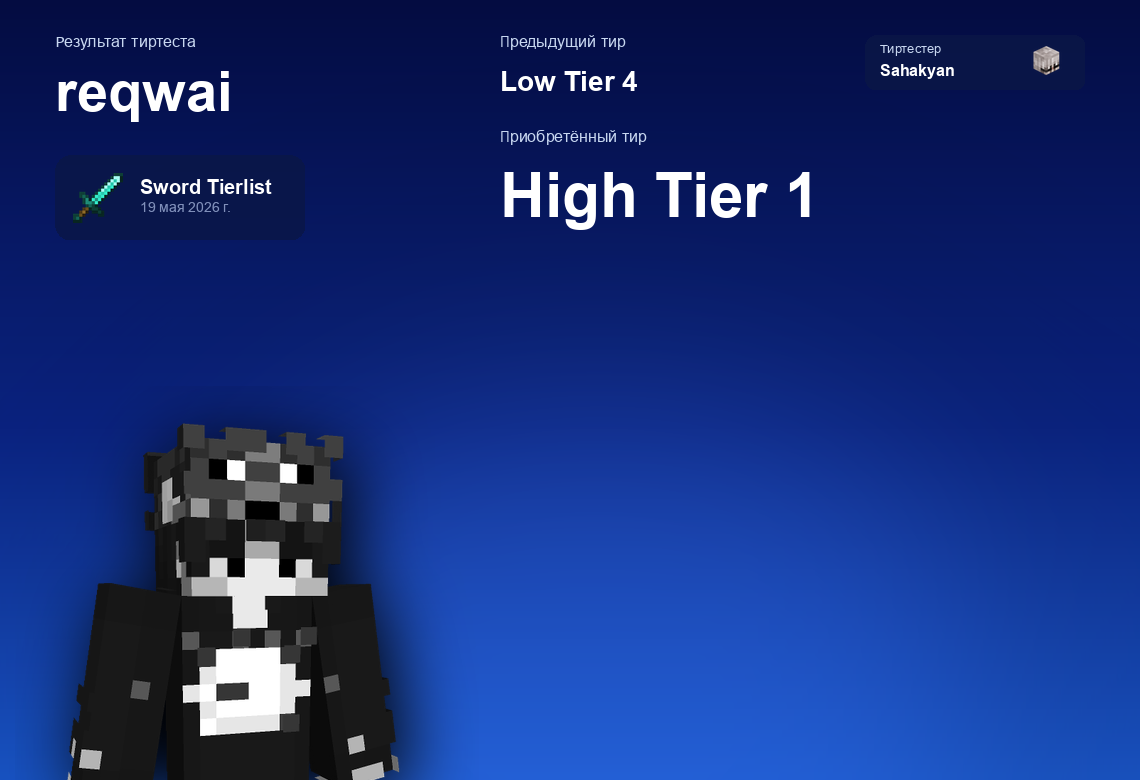
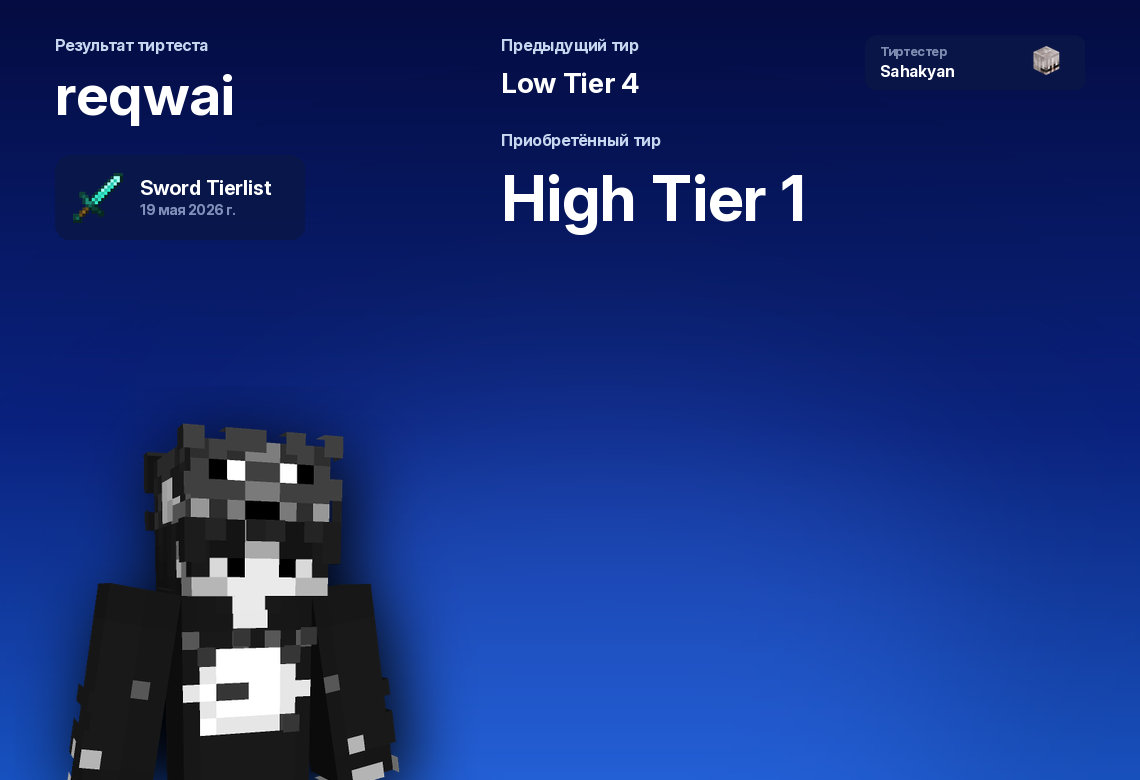
refactor: restructure code into functions, optimize speed and add logging

diff --git a/main.py b/main.py
@@ -1,151 +1,188 @@
 from PIL import Image, ImageDraw, ImageFilter, ImageFont
+import logging
+
+logging.basicConfig(level=logging.INFO, format="%(levelname)s: %(message)s")
+log = logging.getLogger(__name__)
 
 WIDTH, HEIGHT = 1140, 780
-SKIN_PATH = "reqwai.png"
-SWORD_ICON_PATH = "Diamond_Sword_JE3_BE3.png"
+
+SKIN_PATH          = "reqwai.png"
+SWORD_ICON_PATH    = "Diamond_Sword_JE3_BE3.png"
 TESTER_AVATAR_PATH = "tirtester.png"
-FONT_PATH = "Inter_24pt-Bold.ttf"
-OUTPUT_PATH = "reqwai_result.png"
+FONT_PATH          = "Inter_24pt-Bold.ttf"
+FONT_PATH_REGULAR  = "Inter_24pt-Regular.ttf"
+OUTPUT_PATH        = "reqwai_result.png"
 
 PLAYER_NAME = "reqwai"
 TIER_RESULT = "High Tier 1"
-PREV_TIER = "Low Tier 4"
+PREV_TIER   = "Low Tier 4"
 TESTER_NAME = "Sahakyan"
-DATE_TEXT = "19 мая 2026 г."
+DATE_TEXT   = "19 мая 2026 г."
 
-WHITE = (255, 255, 255, 255)
+WHITE      = (255, 255, 255, 255)
 LIGHT_GRAY = (200, 215, 240, 160)
-CARD_BG = (10, 22, 70, 210)
+CARD_BG    = (10, 22, 70, 210)
+
+TOP_COLOR    = (4,  12,  65)
+MID_COLOR    = (10, 35, 130)
+BOTTOM_COLOR = (25, 85, 200)
+
+PAD = 55
+
 
 def mix(c1, c2, t):
     return tuple(int(c1[i] * (1 - t) + c2[i] * t) for i in range(3))
 
-def load_f(size, bold=False):
-    try:
-        if "arial" in FONT_PATH.lower() and bold:
-            return ImageFont.truetype("arialbd.ttf", size)
-        return ImageFont.truetype(FONT_PATH, size)
-    except:
+
+def load_font(size: int, bold: bool = False) -> ImageFont.FreeTypeFont:
+    candidates = [
+        FONT_PATH if bold else FONT_PATH_REGULAR,
+        FONT_PATH,
+        "arialbd.ttf" if bold else "arial.ttf",
+    ]
+    for path in candidates:
         try:
-            return ImageFont.truetype("arialbd.ttf" if bold else "arial.ttf", size)
-        except:
-            return ImageFont.load_default()
+            return ImageFont.truetype(path, size)
+        except (IOError, OSError):
+            continue
+    log.warning("Не удалось загрузить TrueType-шрифт, используется встроенный.")
+    return ImageFont.load_default()
 
-top_color    = (4,  12,  65)
-mid_color    = (10, 35, 130)
-bottom_color = (25, 85, 200)
 
-gradient = Image.new("RGB", (1, HEIGHT))
-for y in range(HEIGHT):
-    t = y / (HEIGHT - 1)
-    if t < 0.55:
-        color = mix(top_color, mid_color, t / 0.55)
-    else:
-        color = mix(mid_color, bottom_color, (t - 0.55) / 0.45)
-    gradient.putpixel((0, y), color)
+def build_gradient() -> Image.Image:
+    img = Image.new("RGB", (WIDTH, HEIGHT))
+    draw = ImageDraw.Draw(img)
+    for y in range(HEIGHT):
+        t = y / (HEIGHT - 1)
+        if t < 0.55:
+            color = mix(TOP_COLOR, MID_COLOR, t / 0.55)
+        else:
+            color = mix(MID_COLOR, BOTTOM_COLOR, (t - 0.55) / 0.45)
+        draw.line([(0, y), (WIDTH, y)], fill=color)
+    return img
 
-result = gradient.resize((WIDTH, HEIGHT)).convert("RGBA")
 
-glow = Image.new("RGBA", (WIDTH, HEIGHT), (0, 0, 0, 0))
-draw_g = ImageDraw.Draw(glow)
-draw_g.ellipse([int(WIDTH*0.1), int(HEIGHT*0.4), int(WIDTH*0.95), int(HEIGHT*1.2)], fill=(60, 120, 245, 75))
-glow = glow.filter(ImageFilter.GaussianBlur(130))
-result = Image.alpha_composite(result, glow)
+def build_tierlist_card(f_card, f_card_sm) -> Image.Image:
+    card_w, card_h = 250, 85
+    card = Image.new("RGBA", (card_w, card_h), (0, 0, 0, 0))
+    draw = ImageDraw.Draw(card)
+    draw.rounded_rectangle([0, 0, card_w, card_h], radius=16, fill=CARD_BG)
 
-draw = ImageDraw.Draw(result)
+    try:
+        sword = Image.open(SWORD_ICON_PATH).convert("RGBA")
+        sword = sword.resize((50, 50), Image.Resampling.LANCZOS)
+        card.alpha_composite(sword, (18, 18))
+    except Exception as e:
+        log.warning("Не удалось загрузить иконку меча: %s", e)
+        draw.text((18, 18), "⚔", font=load_font(30), fill=WHITE)
 
-f_small        = load_f(16, bold=False)
-f_name         = load_f(56, bold=True)
-f_med          = load_f(28, bold=True)
-f_tier         = load_f(62, bold=True)
-f_card         = load_f(20, bold=True)
-f_card_sm      = load_f(14, bold=False)
-f_tester_title = load_f(13, bold=False)
-f_tester_name  = load_f(16, bold=True)
+    draw.text((85, 20), "Sword Tierlist", font=f_card,    fill=WHITE)
+    draw.text((85, 46), DATE_TEXT,        font=f_card_sm, fill=LIGHT_GRAY)
+    return card
 
-pad = 55
 
-draw.text((pad, 35), "Результат тиртеста", font=f_small, fill=LIGHT_GRAY)
-draw.text((pad, 60), PLAYER_NAME, font=f_name, fill=WHITE)
+def paste_tester_badge(result: Image.Image, f_title, f_name) -> Image.Image:
+    tw, th = 220, 55
+    tx = WIDTH - tw - PAD
+    ty = 35
 
-card_x, card_y = pad, 155
-card_w, card_h = 250, 85
-card_bg = Image.new("RGBA", (card_w, card_h), (0, 0, 0, 0))
-draw_c = ImageDraw.Draw(card_bg)
-draw_c.rounded_rectangle([0, 0, card_w, card_h], radius=16, fill=CARD_BG)
+    badge = Image.new("RGBA", (tw, th), (0, 0, 0, 0))
+    draw  = ImageDraw.Draw(badge)
+    draw.rounded_rectangle([0, 0, tw, th], radius=12, fill=CARD_BG)
+    draw.text((15,  8), "Тиртестер", font=f_title, fill=LIGHT_GRAY)
+    draw.text((15, 26), TESTER_NAME, font=f_name,  fill=WHITE)
+    result.alpha_composite(badge, (tx, ty))
 
-try:
-    sword_img = Image.open(SWORD_ICON_PATH).convert("RGBA")
-    sword_img = sword_img.resize((50, 50), Image.Resampling.LANCZOS)
-    card_bg.alpha_composite(sword_img, (18, 18))
-except:
-    draw_c.text((18, 18), "⚔", font=load_f(30), fill=WHITE)
+    try:
+        avatar = Image.open(TESTER_AVATAR_PATH).convert("RGBA")
+        target_h = 36
+        scale    = target_h / avatar.height
+        avatar   = avatar.resize(
+            (int(avatar.width * scale), target_h),
+            Image.Resampling.LANCZOS,
+        )
+        hx = tx + tw - avatar.width - 12
+        hy = ty + (th - avatar.height) // 2
+        layer = Image.new("RGBA", result.size, (0, 0, 0, 0))
+        layer.paste(avatar, (hx, hy))
+        result = Image.alpha_composite(result, layer)
+    except Exception as e:
+        log.warning("Не удалось загрузить аватар тестера: %s", e)
 
-draw_c.text((85, 20), "Sword Tierlist", font=f_card, fill=WHITE)
-draw_c.text((85, 46), DATE_TEXT, font=f_card_sm, fill=LIGHT_GRAY)
+    return result
 
-result.alpha_composite(card_bg, (card_x, card_y))
 
-cx = 500
-draw.text((cx, 35), "Предыдущий тир", font=f_small, fill=LIGHT_GRAY)
-draw.text((cx, 65), PREV_TIER, font=f_med, fill=WHITE)
+def paste_skin(result: Image.Image) -> Image.Image:
+    try:
+        skin  = Image.open(SKIN_PATH).convert("RGBA")
+        max_w = int(WIDTH  * 0.32)
+        max_h = int(HEIGHT * 0.60)
+        scale = min(max_w / skin.width, max_h / skin.height)
+        skin  = skin.resize(
+            (int(skin.width * scale), int(skin.height * scale)),
+            Image.Resampling.LANCZOS,
+        )
 
-draw.text((cx, 130), "Приобретённый тир", font=f_small, fill=LIGHT_GRAY)
-draw.text((cx, 160), TIER_RESULT, font=f_tier, fill=WHITE)
+        sx = PAD
+        sy = HEIGHT - skin.height + 5
 
-tx = WIDTH - 275
-ty = 35
-tw, th = 220, 55
+        shadow_layer = Image.new("RGBA", skin.size, (0, 0, 0, 0))
+        shadow_layer.putalpha(skin.getchannel("A"))
 
-tester_bg_layer = Image.new("RGBA", (tw, th), (0, 0, 0, 0))
-draw_t = ImageDraw.Draw(tester_bg_layer)
-draw_t.rounded_rectangle([0, 0, tw, th], radius=12, fill=CARD_BG)
-result.alpha_composite(tester_bg_layer, (tx, ty))
+        shadow_canvas = Image.new("RGBA", (skin.width + 100, skin.height + 100), (0, 0, 0, 0))
+        shadow_canvas.paste(shadow_layer, (50, 50))
+        shadow_canvas = shadow_canvas.filter(ImageFilter.GaussianBlur(35))
 
-draw.text((tx + 15, ty + 8), "Тиртестер", font=f_tester_title, fill=LIGHT_GRAY)
-draw.text((tx + 15, ty + 26), TESTER_NAME, font=f_tester_name, fill=WHITE)
+        result.alpha_composite(shadow_canvas, (sx - 50 + 10, sy - 50 + 15))
+        result.alpha_composite(skin, (sx, sy))
+    except Exception as e:
+        log.warning("Не удалось загрузить скин: %s", e)
+    return result
 
-try:
-    trainer_head = Image.open(TESTER_AVATAR_PATH).convert("RGBA")
-    target_h = 36
-    
-    scale_y = target_h / trainer_head.height
-    new_size_y = (int(trainer_head.width * scale_y), target_h)
-    trainer_head = trainer_head.resize(new_size_y, Image.Resampling.LANCZOS)
-    
-    hx = tx + tw - (trainer_head.width + 12)
-    hy = ty + (th - trainer_head.height) // 2
-    
-    head_layer = Image.new("RGBA", result.size, (0, 0, 0, 0))
-    head_layer.paste(trainer_head, (hx, hy))
-    result = Image.alpha_composite(result, head_layer)
+
+def render() -> None:
+    result = build_gradient().convert("RGBA")
+
+    glow   = Image.new("RGBA", (WIDTH, HEIGHT), (0, 0, 0, 0))
+    draw_g = ImageDraw.Draw(glow)
+    draw_g.ellipse(
+        [int(WIDTH * 0.1), int(HEIGHT * 0.4), int(WIDTH * 0.95), int(HEIGHT * 1.2)],
+        fill=(60, 120, 245, 75),
+    )
+    glow   = glow.filter(ImageFilter.GaussianBlur(130))
+    result = Image.alpha_composite(result, glow)
+
     draw = ImageDraw.Draw(result)
-except:
-    pass
 
-try:
-    skin = Image.open(SKIN_PATH).convert("RGBA")
-    
-    max_w = int(WIDTH * 0.32)
-    max_h = int(HEIGHT * 0.60)
-    scale = min(max_w / skin.width, max_h / skin.height)
-    new_size = (int(skin.width * scale), int(skin.height * scale))
-    skin = skin.resize(new_size, Image.Resampling.LANCZOS)
+    f_small        = load_font(16)
+    f_name         = load_font(56, bold=True)
+    f_med          = load_font(28, bold=True)
+    f_tier         = load_font(62, bold=True)
+    f_card         = load_font(20, bold=True)
+    f_card_sm      = load_font(14)
+    f_tester_title = load_font(13)
+    f_tester_name  = load_font(16, bold=True)
 
-    sx = 55
-    sy = HEIGHT - skin.height + 5
+    draw.text((PAD, 35), "Результат тиртеста", font=f_small, fill=LIGHT_GRAY)
+    draw.text((PAD, 60), PLAYER_NAME,          font=f_name,  fill=WHITE)
 
-    shadow_layer = Image.new("RGBA", skin.size, (0, 0, 0, 140))
-    shadow_layer.putalpha(skin.getchannel("A"))
-    
-    shadow = Image.new("RGBA", (skin.width + 100, skin.height + 100), (0,0,0,0))
-    shadow.paste(shadow_layer, (50, 50))
-    shadow = shadow.filter(ImageFilter.GaussianBlur(35))
-    
-    result.alpha_composite(shadow, (sx - 50 + 10, sy - 50 + 15))
-    result.alpha_composite(skin, (sx, sy))
-except:
-    pass
+    card = build_tierlist_card(f_card, f_card_sm)
+    result.alpha_composite(card, (PAD, 155))
 
-result = result.convert("RGB")
-result.save(OUTPUT_PATH, quality=95)
+    cx = int(WIDTH * 0.44)
+    draw.text((cx, 35),  "Предыдущий тир",   font=f_small, fill=LIGHT_GRAY)
+    draw.text((cx, 65),  PREV_TIER,           font=f_med,   fill=WHITE)
+    draw.text((cx, 130), "Приобретённый тир", font=f_small, fill=LIGHT_GRAY)
+    draw.text((cx, 160), TIER_RESULT,         font=f_tier,  fill=WHITE)
+
+    result = paste_tester_badge(result, f_tester_title, f_tester_name)
+    draw   = ImageDraw.Draw(result)
+
+    result = paste_skin(result)
+
+    result.convert("RGB").save(OUTPUT_PATH, quality=95)
+    log.info("Сохранено: %s", OUTPUT_PATH)
+
+
+if __name__ == "__main__":
+    render()
